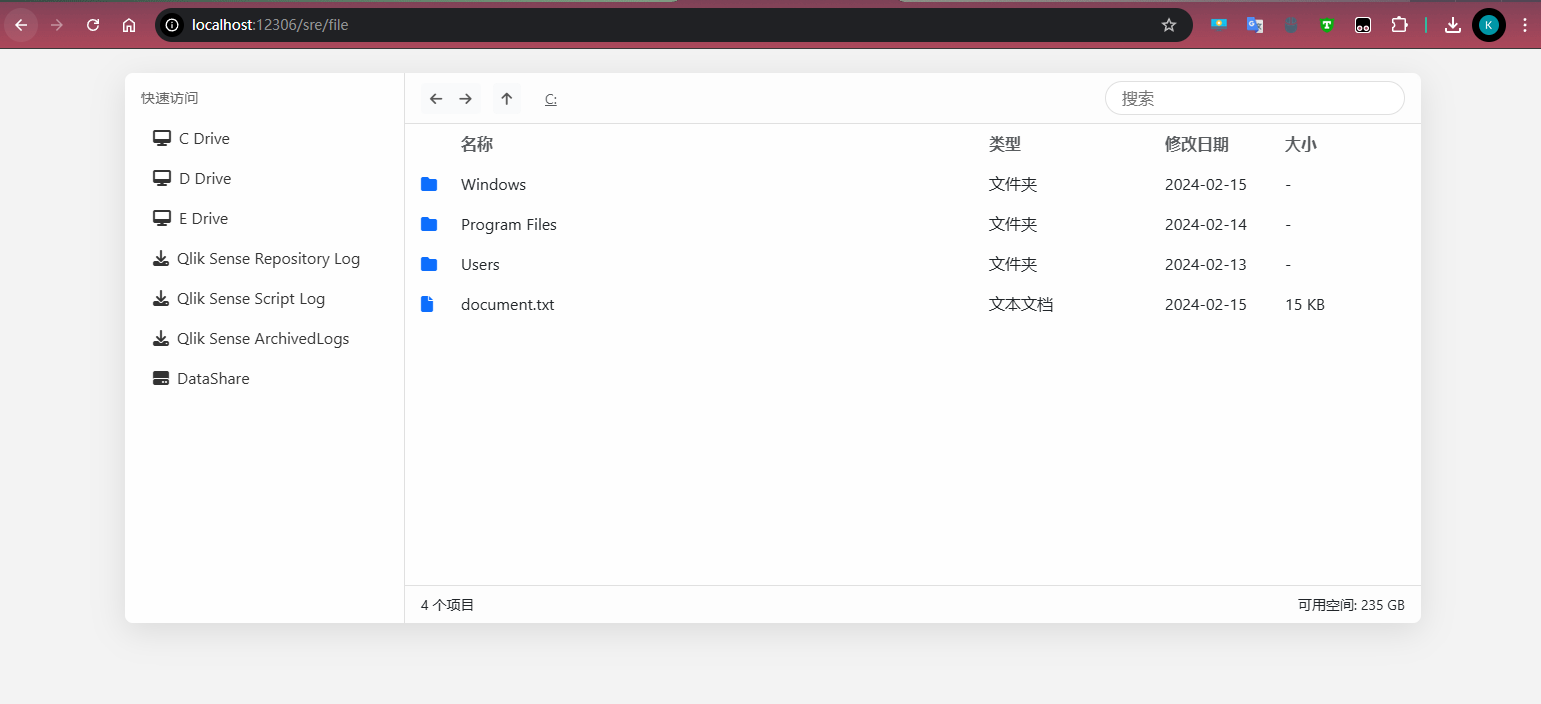
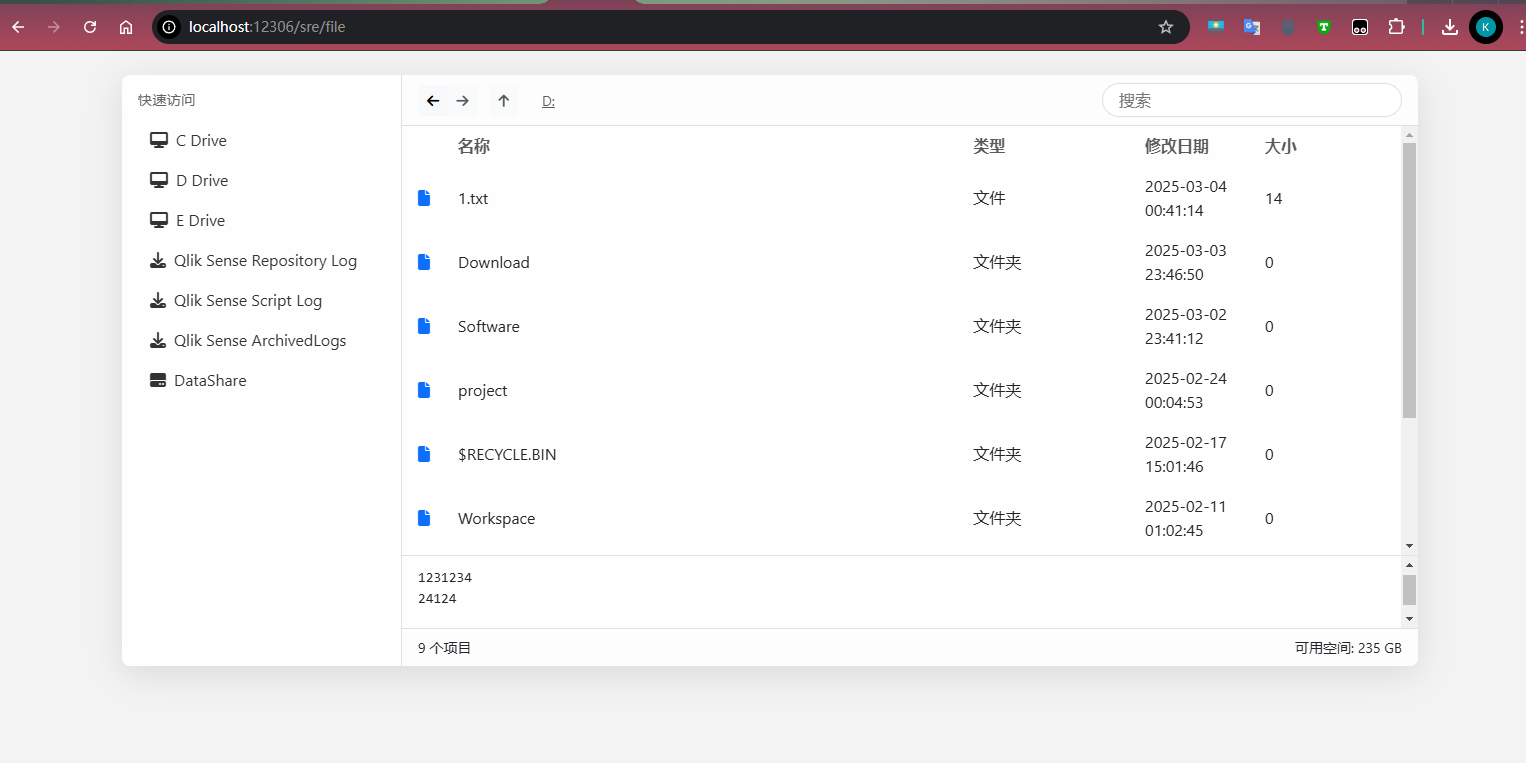
| 2025-03-04 | 实现文件目录查看以及文本浏览(完善中)         |

diff --git a/src/main/resources/templates/file.html b/src/main/resources/templates/file.html
@@ -1,12 +1,11 @@
 <!DOCTYPE html>
-<html lang="zh-CN">
+<html lang="zh-CN" xmlns:th="http://www.thymeleaf.org">
 <head>
     <meta charset="UTF-8">
     <meta name="viewport" content="width=device-width, initial-scale=1">
     <title>Windows 11 文件浏览器</title>
-    <link th:css th:href="@{/static/bootstrap/5.3.2/css/bootstrap.min.css}" rel="stylesheet"/>
-    <link th:href th:href="@{/static/fontawesome/6.4.2/css/all.min.css}" rel="stylesheet"/>
-</head>
+    <link th:href="@{/static/bootstrap/5.3.2/css/bootstrap.min.css}" rel="stylesheet"/>
+    <link th:href="@{/static/font-awesome/6.4.0/css/all.min.css}" rel="stylesheet"/>
     <style>
         :root {
             --win-bg: #f3f3f3;
@@ -104,105 +103,102 @@
             display: flex;
             justify-content: space-between;
         }
+
+        .file-content {
+            display: none;
+            background: rgba(255, 255, 255, 0.9);
+            padding: 16px;
+            border-top: 1px solid var(--win-border);
+            flex-grow: 1;
+            overflow-y: auto;
+        }
     </style>
+</head>
 <body>
     <div class="container-lg mt-4">
-    <div class="file-explorer">
-        <!-- 侧边栏 -->
-        <div class="sidebar">
-            <div class="quick-access">
-                <h6>快速访问</h6>
-                <div class="nav flex-column">
-                    <a class="nav-link" href="#" data-path="C:\\">
-                        <i class="fas fa-desktop me-2"></i>C Drive
-                    </a>
-                    <a class="nav-link" href="#" data-path="D:\\">
-                        <i class="fas fa-desktop me-2"></i>D Drive
-                    </a>
-                    <a class="nav-link" href="#" data-path="E:\\">
-                        <i class="fas fa-desktop me-2"></i>E Drive
-                    </a>
-                    <a class="nav-link" href="#" data-path="C:\\ProgramData\\Qlik\\Sense\\Log\\Repository">
-                        <i class="fas fa-download me-2"></i>Qlik Sense Repository Log
-                    </a>
-                    <a class="nav-link" href="#" data-path="C:\\ProgramData\\Qlik\\Sense\\Log\\Script">
-                        <i class="fas fa-download me-2"></i>Qlik Sense Script Log
-                    </a>
-                    <a class="nav-link" href="#" data-path="D:\\QlikShare\\ArchivedLogs">
-                        <i class="fas fa-download me-2"></i>Qlik Sense ArchivedLogs
-                    </a>
-                    <a class="nav-link" href="#" data-path="D:\\DataShare">
-                        <i class="fas fa-hard-drive me-2"></i>DataShare
-                    </a>
+        <div class="file-explorer">
+            <!-- 侧边栏 -->
+            <div class="sidebar">
+                <div class="quick-access">
+                    <h6>快速访问</h6>
+                    <div class="nav flex-column">
+                        <a class="nav-link" href="#" data-path="C:\\">
+                            <i class="fas fa-desktop me-2"></i>C Drive
+                        </a>
+                        <a class="nav-link" href="#" data-path="D:\\">
+                            <i class="fas fa-desktop me-2"></i>D Drive
+                        </a>
+                        <a class="nav-link" href="#" data-path="E:\\">
+                            <i class="fas fa-desktop me-2"></i>E Drive
+                        </a>
+                        <a class="nav-link" href="#" data-path="C:\\ProgramData\\Qlik\\Sense\\Log\\Repository">
+                            <i class="fas fa-download me-2"></i>Qlik Sense Repository Log
+                        </a>
+                        <a class="nav-link" href="#" data-path="C:\\ProgramData\\Qlik\\Sense\\Log\\Script">
+                            <i class="fas fa-download me-2"></i>Qlik Sense Script Log
+                        </a>
+                        <a class="nav-link" href="#" data-path="D:\\QlikShare\\ArchivedLogs">
+                            <i class="fas fa-download me-2"></i>Qlik Sense ArchivedLogs
+                        </a>
+                        <a class="nav-link" href="#" data-path="D:\\DataShare">
+                            <i class="fas fa-hard-drive me-2"></i>DataShare
+                        </a>
+                    </div>
+                </div>
+            </div>
+
+            <!-- 主内容区 -->
+            <div class="flex-grow-1 d-flex flex-column">
+                <!-- 工具栏 -->
+                <div class="toolbar d-flex align-items-center">
+                    <div class="btn-group">
+                        <button class="btn btn-sm btn-light" id="btnBack">
+                            <i class="fas fa-arrow-left"></i>
+                        </button>
+                        <button class="btn btn-sm btn-light" id="btnForward">
+                            <i class="fas fa-arrow-right"></i>
+                        </button>
+                    </div>
+                    <button class="btn btn-sm btn-light" id="btnUp">
+                        <i class="fas fa-arrow-up"></i>
+                    </button>
+                    <nav class="breadcrumb mb-0 flex-grow-1 mx-2"></nav>
+                    <input type="text" class="search-box" placeholder="搜索">
+                </div>
+
+                <!-- 文件列表 -->
+                <div class="file-list" id="fileList">
+                    <div class="file-item text-muted fw-bold">
+                        <div></div>
+                        <div>名称</div>
+                        <div>类型</div>
+                        <div>修改日期</div>
+                        <div>大小</div>
+                    </div>
+                </div>
+
+                <!-- 文件内容 -->
+                <div class="file-content" id="fileContent"></div>
+
+                <!-- 状态栏 -->
+                <div class="status-bar">
+                    <span>0 个项目</span>
+                    <span>可用空间: 235 GB</span>
                 </div>
             </div>
         </div>
-
-        <!-- 主内容区 -->
-        <div class="flex-grow-1 d-flex flex-column">
-            <!-- 工具栏 -->
-            <div class="toolbar d-flex align-items-center">
-                <div class="btn-group">
-                    <button class="btn btn-sm btn-light" id="btnBack">
-                        <i class="fas fa-arrow-left"></i>
-                    </button>
-                    <button class="btn btn-sm btn-light" id="btnForward">
-                        <i class="fas fa-arrow-right"></i>
-                    </button>
-                </div>
-                <button class="btn btn-sm btn-light" id="btnUp">
-                    <i class="fas fa-arrow-up"></i>
-                </button>
-                <nav class="breadcrumb mb-0 flex-grow-1 mx-2"></nav>
-                <input type="text" class="search-box" placeholder="搜索">
-            </div>
-
-            <!-- 文件列表 -->
-            <div class="file-list" id="fileList">
-                <div class="file-item text-muted fw-bold">
-                    <div></div>
-                    <div>名称</div>
-                    <div>类型</div>
-                    <div>修改日期</div>
-                    <div>大小</div>
-                </div>
-            </div>
-
-            <!-- 状态栏 -->
-            <div class="status-bar">
-                <span>0 个项目</span>
-                <span>可用空间: 235 GB</span>
-            </div>
-        </div>
     </div>
-    </div>
-    </body>
+
     <script th:src="@{/static/jquery/3.7.1/jquery.min.js}"></script>
     <script th:src="@{/static/bootstrap/5.3.2/js/bootstrap.bundle.min.js}"></script>
 
-    <script>
-        // 模拟文件系统数据
-        const fileSystem = {
-            'C:\\': [
-                { name: 'Windows', type: '文件夹', size: '-', modified: '2024-02-15', icon: 'folder' },
-                { name: 'Program Files', type: '文件夹', size: '-', modified: '2024-02-14', icon: 'folder' },
-                { name: 'Users', type: '文件夹', size: '-', modified: '2024-02-13', icon: 'folder' },
-                { name: 'document.txt', type: '文本文档', size: '15 KB', modified: '2024-02-15', icon: 'file' }
-            ],
-            'C:\\Users\\Public\\Desktop': [
-                { name: 'Chrome.lnk', type: '快捷方式', size: '2 KB', modified: '2024-02-15', icon: 'link' },
-                { name: '文档', type: '文件夹', size: '-', modified: '2024-02-14', icon: 'folder' }
-            ],
-            'C:\\Users\\Public\\Documents': [
-                { name: '报告.docx', type: 'Word 文档', size: '1.5 MB', modified: '2024-02-15', icon: 'file-word' }
-            ],
-            'C:\\Users\\Public\\Downloads': [
-                { name: '安装包.exe', type: '应用程序', size: '45 MB', modified: '2024-02-14', icon: 'file-exe' }
-            ]
-        };
-
+    <script th:inline="javascript">
+        const listUrl = /*[[ @{/list} ]]*/ '';
+        const readUrl = /*[[ @{/read} ]]*/ '';
+        const downloadUrl = /*[[ @{/download} ]]*/ '';
         // 图标映射
         const iconMap = {
+            true: 'fa-folder',
             folder: 'fa-folder',
             'file-word': 'fa-file-word',
             'file-exe': 'fa-file-code',
@@ -239,6 +235,17 @@
                 const keyword = $(this).val().toLowerCase();
                 filterFiles(keyword);
             });
+
+            // 文件点击事件
+            $('#fileList').on('click', '.file-item', function() {
+                const fileName = $(this).find('div:nth-child(2)').text();
+                const filePath = currentPath +"//"+ fileName;
+                if ($(this).find('div:nth-child(3)').text() === '文件夹') {
+                    loadPath(filePath);
+                } else {
+                    readFile(filePath);
+                }
+            });
         });
 
         // 加载路径
@@ -251,8 +258,26 @@
 
             currentPath = path;
             updateBreadcrumb();
-            renderFiles(fileSystem[path] || []);
+            fetchFiles(path);
             updateNavigationButtons();
+            $('#fileContent').hide();
+        }
+
+        // 获取文件列表
+        function fetchFiles(path) {
+            $.ajax({
+                url: listUrl,
+                type: 'POST',
+                contentType: 'application/json; charset=utf-8',
+                data: JSON.stringify({ filePath: path }),
+                success: function(response) {
+                    // console.log(response);
+                    renderFiles(response);
+                },
+                error: function(xhr, status, error) {
+                    $('#fileList').empty().append('<div class="file-item text-danger">加载文件失败</div>');
+                }
+            });
         }
 
         // 渲染文件列表
@@ -263,13 +288,14 @@
             );
 
             files.forEach(file => {
-                const icon = iconMap[file.icon] || iconMap.default;
+                const icon = iconMap[file.type] || iconMap.default;
+                const fileType = file.directory ? '文件夹' : '文件';
                 $list.append(`
                     <div class="file-item">
                         <div><i class="fas ${icon} text-primary"></i></div>
                         <div>${file.name}</div>
-                        <div>${file.type}</div>
-                        <div>${file.modified}</div>
+                        <div>${fileType}</div>
+                        <div>${file.lastModified}</div>
                         <div>${file.size}</div>
                     </div>
                 `);
@@ -325,6 +351,22 @@
             $('#btnForward').prop('disabled', currentHistoryIndex >= history.length - 1);
             $('#btnUp').prop('disabled', !getParentPath(currentPath));
         }
-    </script>
 
+        // 读取文件内容
+        function readFile(filePath) {
+            $.ajax({
+                url: readUrl,
+                type: 'POST',
+                contentType: 'application/json; charset=utf-8',
+                data: JSON.stringify({ filePath: filePath }),
+                success: function(response) {
+                    $('#fileContent').html('<pre>' + response + '</pre>').show();
+                },
+                error: function(xhr, status, error) {
+                    $('#fileContent').html('<pre>读取文件失败</pre>').show();
+                }
+            });
+        }
+    </script>
+</body>
 </html>

diff --git a/README.md b/README.md
@@ -32,17 +32,18 @@ TEST SHELL
 
 版本更新
 ----
-| 版本         | 更新内容                          |
-|------------|-------------------------------|
+| 版本         | 更新内容                        |
+|------------|-----------------------------|
+| 2025-03-04 | 实现文件目录查看以及文本浏览(完善中)         |
 | 2025-03-03 | 新增登录页面和Landing Page，静态文件本地化 |
-| 2025-03-02 | initial version               |
+| 2025-03-02 | initial version             |
 
 预览
 ----
 ![Login](img0.png)
 ![Landing](img4.png)
 ![SHELL](img1.png)
-![FILE](img2.png) 
+![File](img2.png)
 ![API](img3.png)
 
 
